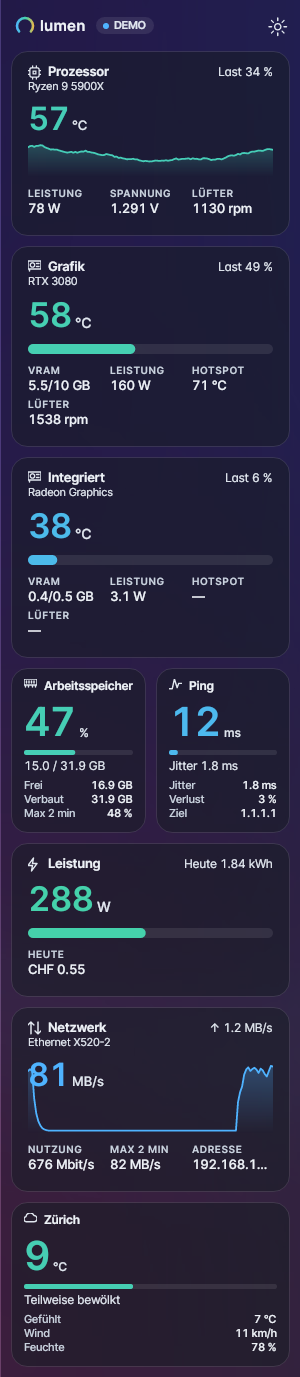
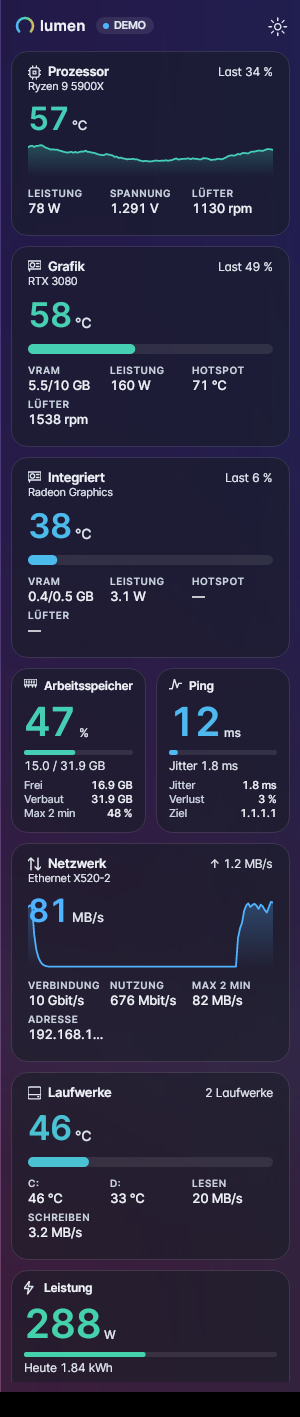
1.9.7: styles for drives, link speed for network
Claude-Session: https://claude.ai/code/session_013ZRAQvxSE7kvrCVH4BjrzG

diff --git a/src/Lumen.App/Styles.cs b/src/Lumen.App/Styles.cs
@@ -133,6 +133,14 @@ public static class Summaries
                 return new(Glyphs.System, T("Uptime"), num, unit, p.Ink, Math.Clamp((y?.Uptime.TotalDays ?? 0) / 7, 0, 1),
                     y?.Os ?? "", Array.Empty<double>(), null);
             }
+            case WidgetKind.Drives:
+            {
+                // The hottest drive leads; the caption counts them.
+                var hot = s.Disks.Where(d => d.Temperature != null).OrderByDescending(d => d.Temperature).FirstOrDefault();
+                string count = $"{s.Disks.Count} {(s.Disks.Count == 1 ? T("drive") : T("drives"))}";
+                return new(Glyphs.Drive, T("Drives"), T2(hot?.Temperature), U, Heat(hot?.Temperature), Format.Heat(hot?.Temperature),
+                    count, Array.Empty<double>(), null);
+            }
             case WidgetKind.DataUsage:
             {
                 var u = s.Usage;
@@ -159,7 +167,8 @@ public static class Summaries
         [WidgetKind.Memory] = new[] { "mem.free", "mem.total", "mem.peak" },
         [WidgetKind.Battery] = new[] { "battery.time", "battery.rate", "battery.health" },
         [WidgetKind.Cooling] = new[] { "cooling.fans", "cooling.board" },
-        [WidgetKind.Network] = new[] { "net.use", "net.peak", "net.address" },
+        [WidgetKind.Network] = new[] { "net.link", "net.use", "net.peak", "net.address" },
+        [WidgetKind.Drives] = new[] { "drives.temps", "drives.io" },
         [WidgetKind.Fps] = new[] { "fps.frametime" },
         [WidgetKind.Ping] = new[] { "ping.jitter", "ping.loss", "ping.target" },
         [WidgetKind.Power] = new[] { "power.cost" },
@@ -171,8 +180,9 @@ public static class Summaries
     // Which of a widget's values a style can show: all of them in Standard; in the others the
     // small figures, plus the history chart in Graph and Minimal.
     public static bool Supports(WidgetKind kind, WidgetStyle style, string key) =>
-        style == WidgetStyle.Standard || !Settings.HasStyles(kind)
-        || ExtraKeys.TryGetValue(kind, out var keys) && keys.Contains(key)
+        // The Standard drives card always lists every drive; this switch is for the compact styles.
+        style == WidgetStyle.Standard || !Settings.HasStyles(kind) ? key != "drives.temps"
+        : ExtraKeys.TryGetValue(kind, out var keys) && keys.Contains(key)
         || style is WidgetStyle.Graph or WidgetStyle.Minimal && key == ChartKey(kind);
 
     // The small figures for the compact styles: (label, value), only those the user keeps switched on.
@@ -215,11 +225,20 @@ public static class Summaries
             case WidgetKind.Network:
             {
                 var n = s.Network;
+                Add("net.link", T("Link speed"), Format.Link(n?.LinkBitsPerSecond));
                 Add("net.use", T("Link use"), Format.Bits(n?.DownloadBytesPerSecond * 8));
                 Add("net.peak", T("2-min peak"), Format.Rate(Peak("net.down")));
                 Add("net.address", T("Address"), n?.Address ?? Format.Missing);
                 break;
             }
+            case WidgetKind.Drives:
+                // One figure per drive, by its letters (or short name), then the combined rates.
+                if (set.Shows("drives.temps"))
+                    foreach (var d in s.Disks)
+                        list.Add((d.Letters.Length > 0 ? d.Letters : Names.Short(d.Name), Tc(d.Temperature)));
+                Add("drives.io", T("Read"), Format.Rate(s.Disks.Sum(d => d.ReadBytesPerSecond ?? 0)));
+                Add("drives.io", T("Write"), Format.Rate(s.Disks.Sum(d => d.WriteBytesPerSecond ?? 0)));
+                break;
             case WidgetKind.Fps:
                 Add("fps.frametime", T("Frame time"), s.Fps is { } f ? Format.Milliseconds(f.FrameTimeMs) : Format.Missing);
                 break;

diff --git a/src/Lumen.App/Strings.cs b/src/Lumen.App/Strings.cs
@@ -284,6 +284,10 @@ Above 100 % the sidebar grows wider by the same amount.|Über 100 % wird die Sid
 Nothing on this register yet – choose its widgets in the settings under Widgets → Customise → Register.|Noch nichts auf diesem Register – Widgets dafür in den Einstellungen unter Widgets → Anpassen → Register wählen.|Rien sur cette page pour l'instant – choisissez ses widgets dans les réglages sous Widgets → Personnaliser → Page.|Ancora niente in questa pagina – scegli i widget nelle impostazioni in Widget → Personalizza → Pagina.|Aún no hay nada en esta página – elige sus widgets en los ajustes, en Widgets → Personalizar → Página.|Ainda nada nesta página – escolha os widgets nas definições em Widgets → Personalizar → Página.
 Style for all widgets|Stil für alle Widgets|Style pour tous les widgets|Stile per tutti i widget|Estilo para todos los widgets|Estilo para todos os widgets
 One click sets every widget with styles; each one can still be changed below.|Ein Klick stellt alle Widgets mit Stilen um; jedes lässt sich unten weiterhin einzeln ändern.|Un clic règle tous les widgets à styles ; chacun reste modifiable ci-dessous.|Un clic imposta tutti i widget con stili; ognuno resta modificabile qui sotto.|Un clic cambia todos los widgets con estilos; cada uno se puede cambiar abajo.|Um clique muda todos os widgets com estilos; cada um pode ser alterado abaixo.
+Link speed|Verbindung|Liaison|Collegamento|Enlace|Ligação
+Each drive|Jedes Laufwerk|Chaque disque|Ogni unità|Cada unidad|Cada unidade
+Read|Lesen|Lecture|Lettura|Lectura|Leitura
+Write|Schreiben|Écriture|Scrittura|Escritura|Escrita
 Register names|Register-Namen|Noms des pages|Nomi delle pagine|Nombres de páginas|Nomes das páginas
 Shown at the top instead of 1, 2, 3; leave empty for the number.|Steht oben statt 1, 2, 3; leer lassen für die Nummer.|Affiché en haut au lieu de 1, 2, 3 ; vide = numéro.|Mostrato in alto al posto di 1, 2, 3; vuoto = numero.|Se muestra arriba en lugar de 1, 2, 3; vacío = número.|Mostrado no topo em vez de 1, 2, 3; vazio = número.
 Whole screen|Ganzer Bildschirm|Plein écran|Schermo intero|Pantalla completa|Ecrã inteiro

diff --git a/tools/Lumen.Shots/Program.cs b/tools/Lumen.Shots/Program.cs
@@ -211,8 +211,8 @@ foreach (var w in barCols.Widgets) w.Visible = w.Kind is WidgetKind.Clock or Wid
 foreach (var w in barCols.Widgets) w.Style = w.Kind is WidgetKind.Memory or WidgetKind.Ping or WidgetKind.Power or WidgetKind.DataUsage ? WidgetStyle.Bar : WidgetStyle.Standard;
 DesktopShot("desktop-bar-columns", barCols, true);
 // The new styles, and some backgrounds and colours.
-var newStyles = new Settings { Language = "de", Density = Density.Comfortable, Widgets = Only(WidgetKind.Cpu, WidgetKind.Gpu, WidgetKind.Memory, WidgetKind.Ping, WidgetKind.Power, WidgetKind.Network, WidgetKind.Weather) };
-foreach (var w in newStyles.Widgets) w.Style = w.Kind switch { WidgetKind.Cpu => WidgetStyle.Graph, WidgetKind.Gpu => WidgetStyle.Bar, WidgetKind.Memory or WidgetKind.Ping => WidgetStyle.Tile, WidgetKind.Power => WidgetStyle.Bar, WidgetKind.Network => WidgetStyle.Graph, _ => WidgetStyle.Tile };
+var newStyles = new Settings { Language = "de", Density = Density.Comfortable, Widgets = Only(WidgetKind.Cpu, WidgetKind.Gpu, WidgetKind.Memory, WidgetKind.Ping, WidgetKind.Network, WidgetKind.Drives, WidgetKind.Power) };
+foreach (var w in newStyles.Widgets) w.Style = w.Kind switch { WidgetKind.Cpu => WidgetStyle.Graph, WidgetKind.Gpu => WidgetStyle.Bar, WidgetKind.Memory or WidgetKind.Ping => WidgetStyle.Tile, WidgetKind.Power => WidgetStyle.Tile, WidgetKind.Drives => WidgetStyle.Bar, WidgetKind.Network => WidgetStyle.Graph, _ => WidgetStyle.Tile };
 Sidebar("sidebar-new-styles", newStyles, true);
 foreach (var (bgKey, accent) in new[] { ("black", "#EF4444"), ("aubergine", "#D946EF"), ("forest", "#84CC16"), ("mocha", "#EAB308") })
     Sidebar("sidebar-bg-" + bgKey, new Settings { Language = "de", Density = Density.Comfortable, Background = bgKey, Colors = accent, Widgets = Only(WidgetKind.Clock, WidgetKind.Cpu, WidgetKind.Memory) }, true);

diff --git a/src/Lumen.App/Cards.cs b/src/Lumen.App/Cards.cs
@@ -329,7 +329,7 @@ public sealed class NetworkCard : Card
     {
         var n = s.Network;
         Subtitle = n?.Name ?? "";
-        Aside = Format.Link(n?.LinkBitsPerSecond);
+        Aside = Shows("net.link") ? Format.Link(n?.LinkBitsPerSecond) : "";
         var (dn, du) = Format.Split(Format.Rate(n?.DownloadBytesPerSecond));
         var (un, uu) = Format.Split(Format.Rate(n?.UploadBytesPerSecond));
         down.Set(dn, du, P.Ink);
@@ -685,8 +685,8 @@ public static class Cards
         WidgetKind.Cooling => new[] { ("cooling.fans", T("Fans")), ("cooling.board", T("Board temperatures")) },
         WidgetKind.Memory => new[] { ("mem.bar", T("Segment bar")), ("mem.free", T("Available")), ("mem.total", T("Installed")), ("mem.peak", T("2-min peak")) },
         WidgetKind.Processes => new[] { ("proc.memory", "RAM") },
-        WidgetKind.Drives => new[] { ("drives.io", T("Read and write rates")) },
-        WidgetKind.Network => new[] { ("net.chart", T("History chart")), ("net.use", T("Link use")), ("net.peak", T("2-min peak")), ("net.address", T("Address")) },
+        WidgetKind.Drives => new[] { ("drives.io", T("Read and write rates")), ("drives.temps", T("Each drive")) },
+        WidgetKind.Network => new[] { ("net.link", T("Link speed")), ("net.chart", T("History chart")), ("net.use", T("Link use")), ("net.peak", T("2-min peak")), ("net.address", T("Address")) },
         WidgetKind.Fps => new[] { ("fps.chart", T("History chart")), ("fps.frametime", T("Frame time")) },
         WidgetKind.Ping => new[] { ("ping.chart", T("History chart")), ("ping.jitter", T("Jitter")), ("ping.loss", T("Loss")), ("ping.target", T("Target")) },
         WidgetKind.Power => new[] { ("power.chart", T("History chart")), ("power.cost", T("Costs")), ("power.note", T("Note on the estimate")) },

diff --git a/src/Lumen.Core/Settings.cs b/src/Lumen.Core/Settings.cs
@@ -94,7 +94,8 @@ public sealed class Settings
 
     // Kinds whose reading can be shown as a ring or a slim line.
     public static bool HasStyles(WidgetKind k) => k is WidgetKind.Cpu or WidgetKind.Gpu or WidgetKind.Fps or WidgetKind.Memory or WidgetKind.Battery
-        or WidgetKind.Cooling or WidgetKind.Network or WidgetKind.Ping or WidgetKind.Power or WidgetKind.Weather or WidgetKind.System or WidgetKind.DataUsage;
+        or WidgetKind.Cooling or WidgetKind.Network or WidgetKind.Ping or WidgetKind.Power or WidgetKind.Weather or WidgetKind.System or WidgetKind.DataUsage
+        or WidgetKind.Drives;
 
     public static List<WidgetSlot> DefaultWidgets() => Enum.GetValues<WidgetKind>().Select(k => new WidgetSlot { Kind = k, Visible = VisibleByDefault(k) }).ToList();
 

diff --git a/docs/release-notes/v1.9.7.md b/docs/release-notes/v1.9.7.md
@@ -1,0 +1,4 @@
+# Lumen 1.9.7
+
+- Drives now have the styles too (Ring, Minimal, Bar, Graph, Tile): the hottest drive leads, with each drive's temperature by its letter and the combined read and write rates as small figures.
+- Network: the adapter's link speed (e.g. 10 Gbit/s) is a value of its own – shown in every style and switchable under Customise.
